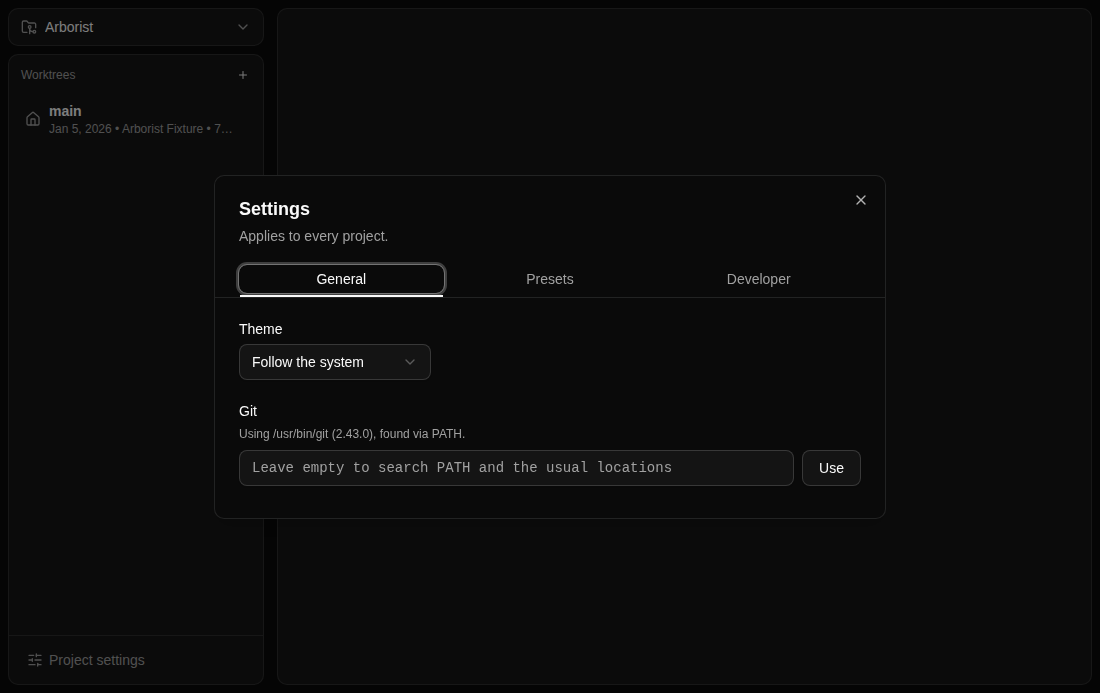
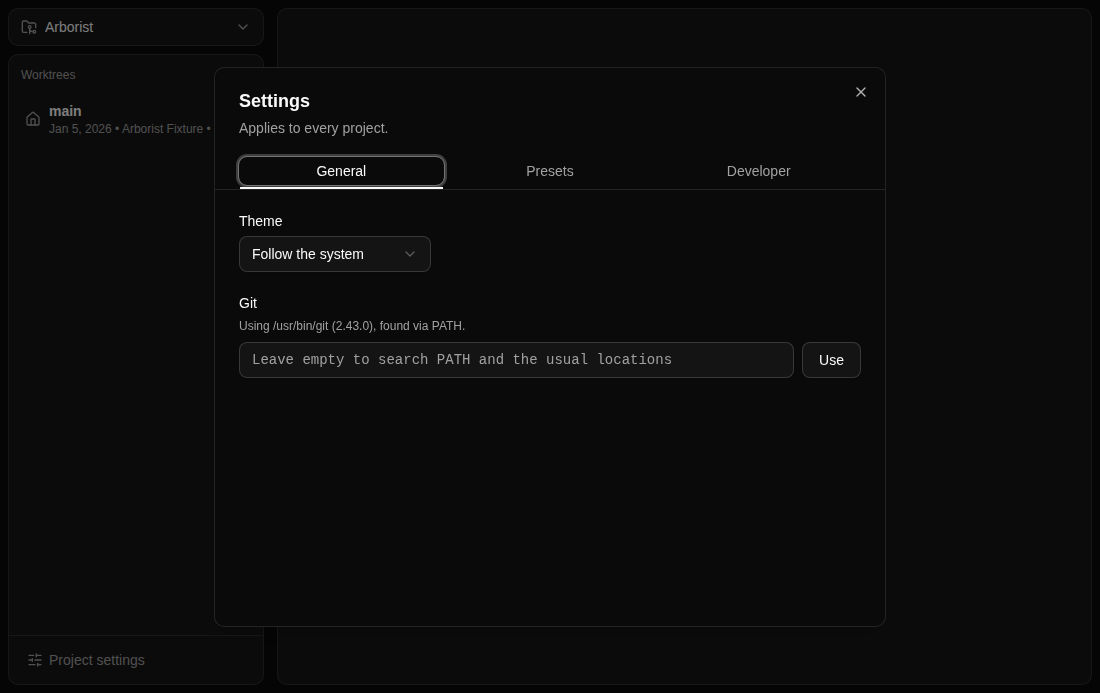
Act on the third round of review
**Settings keeps one height.** The dialog sized itself to whichever tab
was open, so switching tabs moved the tab row out from under the pointer.
It is 560px now, capped to the viewport, with each tab scrolling inside
it.

**Choosing an application works on macOS.** The Choose… button opened
the folder picker, and a macOS app is a bundle — a directory — so every
app in /Applications was greyed out. It opens a file picker filtered to
`.app` now, `.exe` and friends on Windows, unfiltered on Linux where
there is no convention to filter by.

Along the way, a capture bug worth keeping fixed: `animations: disabled`
does not save a textarea, which carries `transition-[color]`, so after a
theme swap its own text fades from one theme's colour to the other's and
a capture in between renders a note as an empty-looking box. The runner
now waits for every CSSTransition to stop running — animations excluded,
since a spinner never finishes — and CLAUDE.md records the trap.

diff --git a/src/renderer/src/components/settings/settings-dialog.tsx b/src/renderer/src/components/settings/settings-dialog.tsx
@@ -38,21 +38,30 @@ export function SettingsDialog({
 
   return (
     <Dialog open={open} onOpenChange={onOpenChange}>
-      <DialogContent data-testid="settings-dialog" className="sm:max-w-2xl">
-        <DialogHeader>
+      {/* A fixed height, so switching tabs moves nothing but the contents:
+          the dialog used to resize to whichever tab was open, which threw the
+          tab row itself around under the pointer. */}
+      <DialogContent
+        data-testid="settings-dialog"
+        className="flex h-[560px] max-h-[calc(100vh-4rem)] flex-col sm:max-w-2xl"
+      >
+        <DialogHeader className="shrink-0">
           <DialogTitle>Settings</DialogTitle>
           <DialogDescription>Applies to every project.</DialogDescription>
         </DialogHeader>
 
         {/* The tab row spans the dialog's full width, past its padding, so the
             rule under it separates the header from whichever tab is open. */}
-        <Tabs defaultValue="general" className="gap-0">
-          <TabsList variant="line" className="-mx-6 w-[calc(100%+3rem)] rounded-none border-b px-6">
+        <Tabs defaultValue="general" className="flex min-h-0 flex-1 flex-col gap-0">
+          <TabsList
+            variant="line"
+            className="-mx-6 w-[calc(100%+3rem)] shrink-0 rounded-none border-b px-6"
+          >
             <TabsTrigger value="general">General</TabsTrigger>
             <TabsTrigger value="presets">Presets</TabsTrigger>
             <TabsTrigger value="developer">Developer</TabsTrigger>
           </TabsList>
-          <TabsContent value="general" className="pt-4">
+          <TabsContent value="general" className="min-h-0 flex-1 overflow-y-auto pt-4">
             {settings.data && (
               <GeneralSettings
                 settings={settings.data}
@@ -60,10 +69,10 @@ export function SettingsDialog({
               />
             )}
           </TabsContent>
-          <TabsContent value="presets" className="pt-4">
+          <TabsContent value="presets" className="min-h-0 flex-1 overflow-y-auto pt-4">
             <PresetSettings />
           </TabsContent>
-          <TabsContent value="developer" className="pt-4">
+          <TabsContent value="developer" className="min-h-0 flex-1 overflow-y-auto pt-4">
             {settings.data && (
               <DeveloperSettings
                 settings={settings.data}

diff --git a/src/main/ipc/register.ts b/src/main/ipc/register.ts
@@ -10,6 +10,7 @@ import type { GitService } from '../services/git/git-service'
 import type { PresetService } from '../services/presets'
 import type { AutomationRunner } from '../services/automation'
 import { worktreeNoteKey } from '../../shared/persisted'
+import { applicationPickerOptions } from '../services/system/pickers'
 
 type Handler<C extends IpcChannel> = (...args: IpcArgs<C>) => Promise<IpcReturn<C>> | IpcReturn<C>
 
@@ -57,6 +58,18 @@ export function registerIpcHandlers({
           title: 'Choose a git repository'
         })
       : await dialog.showOpenDialog({ properties: ['openDirectory'] })
+    return result.canceled ? null : (result.filePaths[0] ?? null)
+  })
+
+  handle('system:pickApplication', async () => {
+    const scripted = process.env['ARBORIST_PICK_APPLICATION']
+    if (scripted) return scripted
+
+    const options = applicationPickerOptions(process.platform)
+    const window = BrowserWindow.getFocusedWindow() ?? BrowserWindow.getAllWindows()[0]
+    const result = window
+      ? await dialog.showOpenDialog(window, options)
+      : await dialog.showOpenDialog(options)
     return result.canceled ? null : (result.filePaths[0] ?? null)
   })
 

diff --git a/tests/unit/pickers.test.ts b/tests/unit/pickers.test.ts
@@ -1,0 +1,26 @@
+import { describe, it, expect } from 'vitest'
+import { applicationPickerOptions } from '../../src/main/services/system/pickers'
+
+describe('applicationPickerOptions', () => {
+  it('picks files rather than directories, on every platform', () => {
+    // A macOS app is a directory; `openDirectory` greys all of them out,
+    // which is the bug this exists to prevent coming back.
+    for (const platform of ['darwin', 'win32', 'linux'] as const) {
+      expect(applicationPickerOptions(platform).properties).toEqual(['openFile'])
+    }
+  })
+
+  it('starts in /Applications and filters to bundles on macOS', () => {
+    const options = applicationPickerOptions('darwin')
+    expect(options.defaultPath).toBe('/Applications')
+    expect(options.filters).toEqual([{ name: 'Applications', extensions: ['app'] }])
+  })
+
+  it('filters to executables on Windows', () => {
+    expect(applicationPickerOptions('win32').filters?.[0].extensions).toContain('exe')
+  })
+
+  it('does not filter on Linux, where there is no convention to filter by', () => {
+    expect(applicationPickerOptions('linux').filters).toBeUndefined()
+  })
+})

diff --git a/src/main/services/system/pickers.ts b/src/main/services/system/pickers.ts
@@ -1,0 +1,29 @@
+import type { OpenDialogOptions } from 'electron'
+
+/**
+ * The native dialog for choosing an application to open a worktree with.
+ *
+ * `openFile` rather than `openDirectory` is the whole point on macOS: an app
+ * is a bundle, which is a directory, and a directory picker greys every one
+ * of them out. Pure, so the per-platform shape is testable without a desktop.
+ */
+export function applicationPickerOptions(platform: NodeJS.Platform): OpenDialogOptions {
+  const options: OpenDialogOptions = {
+    properties: ['openFile'],
+    title: 'Choose an application'
+  }
+
+  if (platform === 'darwin') {
+    return {
+      ...options,
+      defaultPath: '/Applications',
+      filters: [{ name: 'Applications', extensions: ['app'] }]
+    }
+  }
+  if (platform === 'win32') {
+    return { ...options, filters: [{ name: 'Programs', extensions: ['exe', 'bat', 'cmd'] }] }
+  }
+  // Linux has no one convention for where executables live or what they are
+  // called, so anything goes.
+  return options
+}

diff --git a/src/shared/ipc-contract.ts b/src/shared/ipc-contract.ts
@@ -16,6 +16,8 @@ import type { SubstitutionValues } from './substitution'
 export interface IpcInvokeContract {
   /** Native folder picker. Resolves null when the user cancels. */
   'system:pickFolder': { args: []; result: string | null }
+  /** Native application picker: a bundle on macOS, an executable on Windows. */
+  'system:pickApplication': { args: []; result: string | null }
   'projects:list': { args: []; result: Repository[] }
   'projects:add': { args: [path: string]; result: Repository }
   'projects:remove': { args: [id: string]; result: void }
@@ -91,6 +93,7 @@ export type IpcReturn<C extends IpcChannel> = IpcInvokeContract[C]['result']
 
 export const IPC_CHANNELS: readonly IpcChannel[] = [
   'system:pickFolder',
+  'system:pickApplication',
   'projects:list',
   'projects:add',
   'projects:remove',

diff --git a/scripts/screenshot.ts b/scripts/screenshot.ts
@@ -81,6 +81,17 @@ async function captureThemes(
       theme === 'dark'
     )
 
+    // Swapping the theme starts a colour transition on everything carrying
+    // `transition-[color]` — a textarea's own text among them, which lands
+    // near-invisible against the new background if it is caught halfway.
+    // Animations are excluded: a spinner never finishes.
+    await window.waitForFunction(() =>
+      document
+        .getAnimations()
+        .filter((animation) => animation instanceof CSSTransition)
+        .every((animation) => animation.playState !== 'running')
+    )
+
     const path = join(outDir, `${stem}-${theme}.png`)
     // Buttons carry `transition-all`, so swapping the theme animates their
     // colours. Without this the capture lands mid-transition and renders a

diff --git a/src/renderer/src/components/settings/preset-editor.tsx b/src/renderer/src/components/settings/preset-editor.tsx
@@ -180,7 +180,7 @@ export function PresetEditor({
                 <Button
                   variant="outline"
                   onClick={async () => {
-                    const chosen = await invoke('system:pickFolder')
+                    const chosen = await invoke('system:pickApplication')
                     if (chosen) setDraft({ ...draft, command: withValue('app', chosen) })
                   }}
                 >

diff --git a/CLAUDE.md b/CLAUDE.md
@@ -114,10 +114,11 @@ Wait on the end state, as above, rather than sleeping: a capture that races the 
 
 Each call writes `<scenario>-<step>-<theme>.png`, so the example produces six images. A scenario that never calls `shot` is captured once at the end, as `<scenario>-<theme>.png`. Reusing a step name within a scenario is an error rather than a silent overwrite.
 
-Four things the runner handles that are easy to get wrong in a hand-rolled capture. All four produce a plausible-looking wrong image rather than an error, which is the dangerous kind:
+Five things the runner handles that are easy to get wrong in a hand-rolled capture. All five produce a plausible-looking wrong image rather than an error, which is the dangerous kind:
 
 - **Wait for the theme class, not just `emulateMedia`.** `main.tsx` mirrors `prefers-color-scheme` onto a `.dark` class from a change listener, so the class lands a tick after `emulateMedia` resolves.
 - **Screenshot with `animations: 'disabled'`.** Buttons carry `transition-all`, so a theme swap animates their colours. Capturing mid-transition renders a blend of both themes — a `bg-primary` button came out mid-grey in both schemes, which reads as a styling bug that isn't there.
+- **Wait for the colour transitions to finish, as well.** `animations: 'disabled'` does not save every element: a textarea carries `transition-[color]`, so after a theme swap its own text fades from one theme's colour to the other's, and a capture in between shows a note as near-invisible against the new background — an empty-looking box rather than an obviously wrong colour. The runner waits for every `CSSTransition` to stop running, and excludes animations, since a spinner never finishes.
 - **Park the pointer after clicking.** It otherwise rests on whatever was clicked and the capture picks up its `hover:` styling: the ping button measured RGB 209 hovered against 229 at rest. Set `keepPointer` on the scenario to capture a hover state deliberately.
 - **Wait for `#root > *`.** The window is created with `show: false` and revealed on `ready-to-show`, so capturing earlier catches a blank frame.
 
